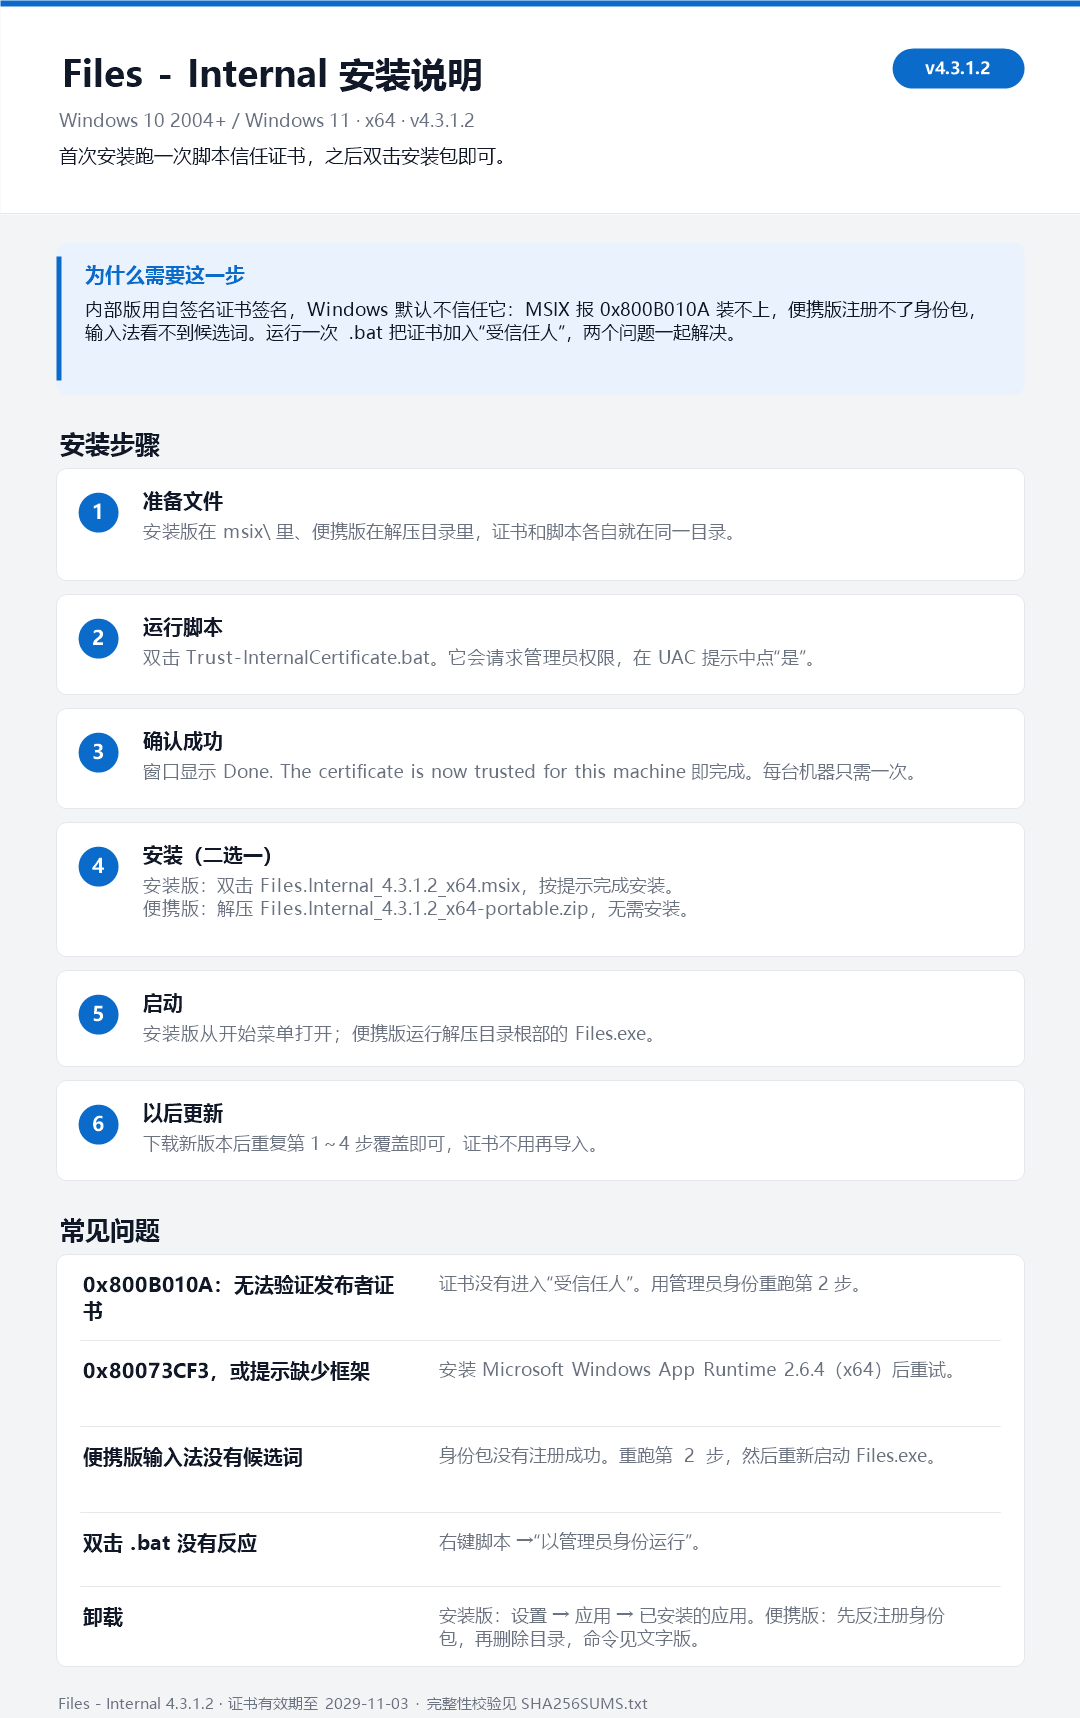
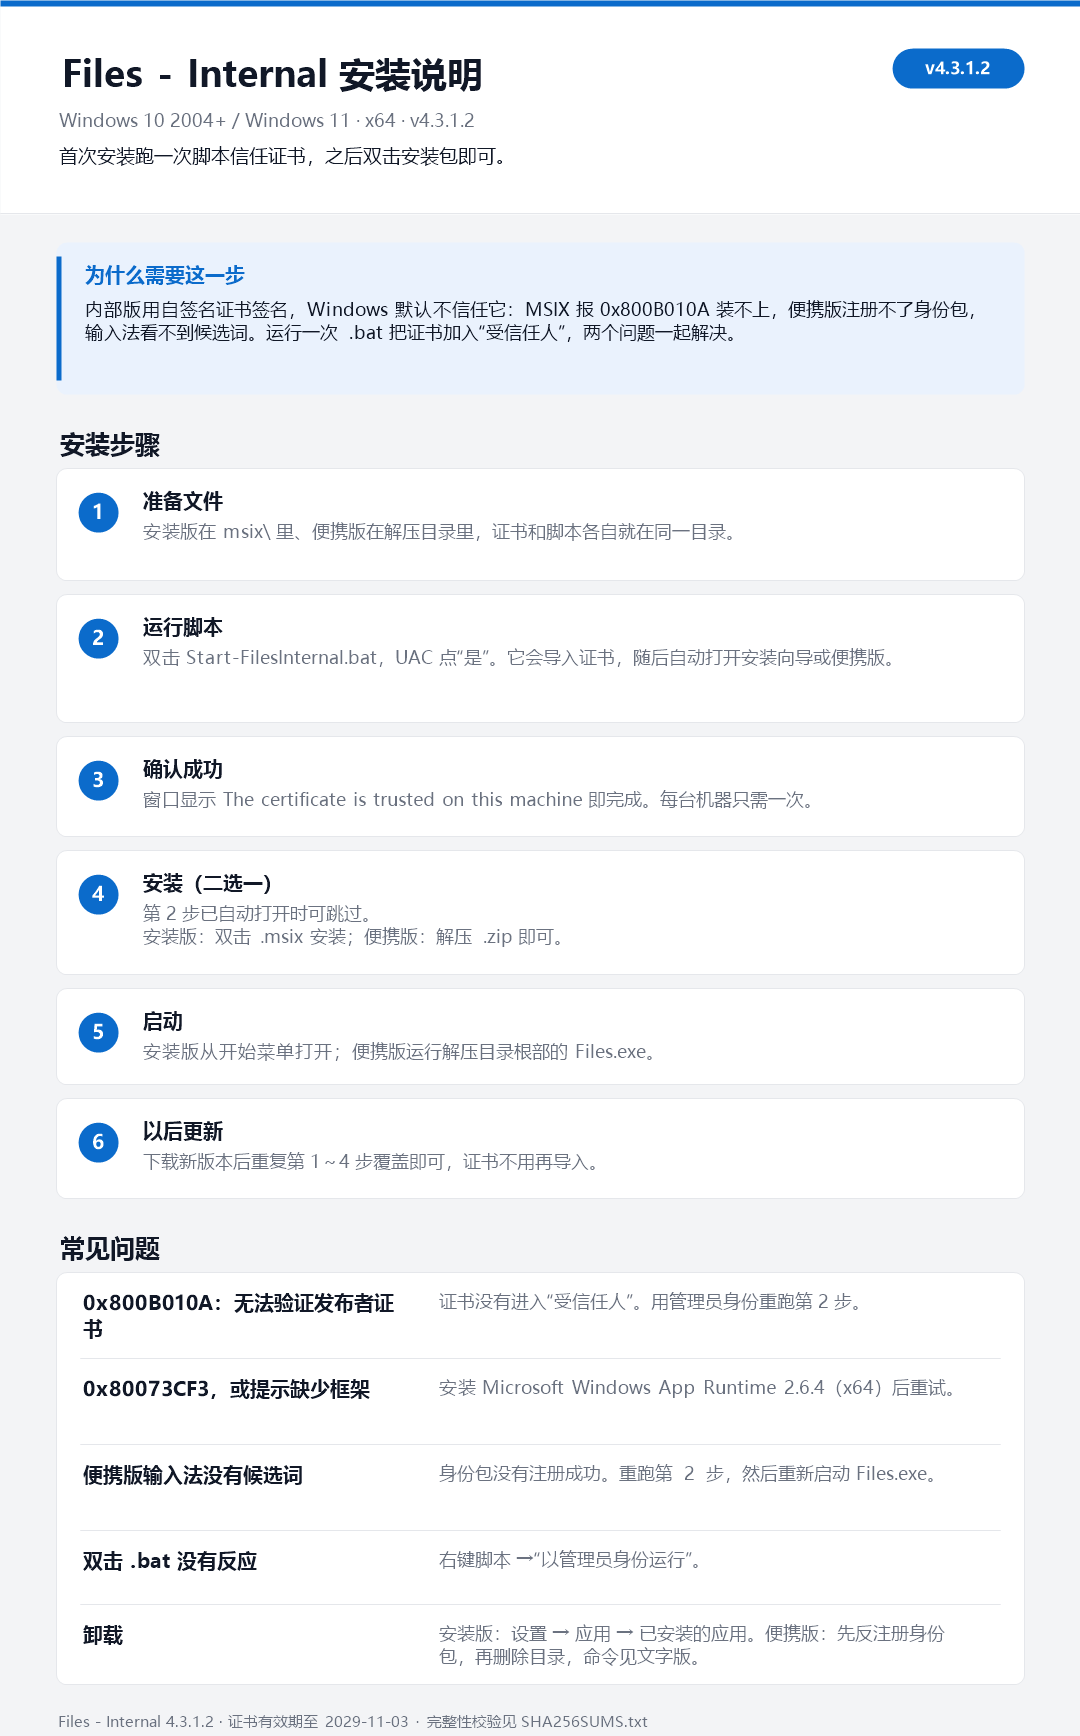
Start the app from the trust helper and prune stale release entries

diff --git a/docs/install-guide/install-guide.md b/docs/install-guide/install-guide.md
@@ -15,7 +15,7 @@
 | 安装 MSIX 时报 `0x800B010A`「无法验证此应用包的发布者证书」 | 证书链构建不到受信任的根 |
 | 便携版运行后输入法没有候选词预览 | 启动器无法注册身份包，退回无身份启动 |
 
-`Trust-InternalCertificate.bat` 把随包发布的 `.cer` 导入本机「受信任人」存储，两个问题一起解决。**每台机器只需要执行一次**，证书有效期到 2029-11-03，期间升级版本不用重复导入。
+`Start-FilesInternal.bat` 把随包发布的 `.cer` 导入本机「受信任人」存储，然后直接启动同目录的安装向导或便携版，两个问题一起解决。**每台机器只需要执行一次**，证书有效期到 2029-11-03，期间升级版本不用重复导入。
 
 > 只导入公钥证书（`.cer`），不涉及私钥。私钥始终留在打包机上，不会随发布包分发。
 
@@ -42,9 +42,9 @@ portable\   便携版：便携压缩包 + 说明
 | --- | --- | --- |
 | `msix\` | `Files.Internal_4.3.1.2_x64.msix` | 安装版安装包 |
 | `msix\` | `Files.Internal_4.3.1.2_x64.cer` | 签名证书公钥，导入用 |
-| `msix\` | `Trust-InternalCertificate.bat` | 一键导入证书的脚本 |
+| `msix\` | `Start-FilesInternal.bat` | 一键：导入证书 → 打开安装向导 |
 | `msix\` | `Files.Internal_4.3.1.2_x64-msix.zip` | 上述文件的打包，便于整包转发 |
-| `portable\` | `Files.Internal_4.3.1.2_x64-portable.zip` | 便携版本体；解压后目录根部同样自带 `.cer` 和 `.bat` |
+| `portable\` | `Files.Internal_4.3.1.2_x64-portable.zip` | 便携版本体；解压后目录根部同样自带 `.cer`、`.bat` 和说明 |
 | 两者 | `install-guide.md`、`install-guide.png` | 本说明 |
 | 两者 | `SHA256SUMS.txt`、`RELEASE-INFO.txt` | 完整性校验与版本信息 |
 
@@ -73,30 +73,38 @@ certutil -hashfile Files.Internal_4.3.1.2_x64.msix SHA256
 
 两个包各自带着证书和脚本，位置不同：
 
-- **安装版**：`msix\` 文件夹里有 `Files.Internal_4.3.1.2_x64.cer` 和 `Trust-InternalCertificate.bat`
+- **安装版**：`msix\` 文件夹里有 `Files.Internal_4.3.1.2_x64.cer` 和 `Start-FilesInternal.bat`
 - **便携版**：先解压 `Files.Internal_4.3.1.2_x64-portable.zip`，解压目录根部有同样的两个文件
 
 脚本只认**自己所在目录**的 `.cer`，所以不要把 `.bat` 单独拷到别处。
 
-### 第 2 步：运行脚本
+### 第 2 步：运行 Start-FilesInternal.bat
 
-在上一步那个目录里双击 `Trust-InternalCertificate.bat`。
+在上一步那个目录里双击 `Start-FilesInternal.bat`。它做三件事：
 
-- 脚本会检测权限，未提权时自动通过 UAC 重新拉起自己
-- 在 UAC 提示中点「是」
-- 如果 UAC 窗口没有出现，右键脚本 →「以管理员身份运行」
+1. 检测权限，未提权时通过 UAC 重新拉起自己
+2. 把同目录的证书导入「受信任人」
+3. 自动启动同目录的产品：
+   - 旁边有 `.msix` → 打开 Windows 安装向导
+   - 旁边有 `Files.exe` → 启动便携版
+
+在 UAC 提示中点「是」。如果 UAC 窗口没有出现，右键脚本 →「以管理员身份运行」。
+
+> 应用是通过 `explorer.exe` 拉起的，所以即使脚本本身是管理员权限，Files 仍以普通用户权限运行。
 
 ### 第 3 步：确认成功
 
-窗口显示下面这行即完成：
+窗口显示下面这行即表示证书已导入，随后会自动打开安装向导或便携版：
 
 ```text
-Done. The certificate is now trusted for this machine.
+The certificate is trusted on this machine.
 ```
 
 失败时脚本以退出码 `1` 结束，并打印 `certutil` 的原始错误。最常见的是没有管理员权限导致的 `0x80070005`。
 
 ### 第 4 步：安装（安装版与便携版二选一）
+
+如果第 2 步已经自动打开了安装向导或便携版，这一步可以跳过；需要手动时才看。
 
 **方式 A — 安装版（推荐日常使用）**
 
@@ -188,10 +196,11 @@ certutil -delstore TrustedPeople 479604F7D446C7E8959902E6076572634EA1A7A1
 
 ## 附：脚本做了什么
 
-`Trust-InternalCertificate.bat` 的全部动作只有三步：
+`Start-FilesInternal.bat` 的全部动作只有四步：
 
 1. 用 `whoami /groups` 检查当前是否具有管理员完整性级别（查 `S-1-16-12288`）
-2. 未提权时通过 `mshta` 调用 `ShellExecute ... runas` 重新拉起自己
+2. 未提权时生成一个临时 `.vbs`，用 `ShellExecute ... "runas"` 重新拉起自己，用完即删
 3. 执行 `certutil -addstore -f "TrustedPeople" <证书>` 写入本机证书存储
+4. 通过 `explorer.exe` 启动同目录的 `.msix`（安装向导）或 `Files.exe`（便携版），保证应用不以管理员权限运行
 
 不写注册表、不改系统设置、不联网、不安装任何服务。

diff --git a/.github/scripts/INTERNAL-RELEASE.md b/.github/scripts/INTERNAL-RELEASE.md
@@ -124,6 +124,11 @@ verification happen in staging directories. The previous release is replaced
 only after the complete new release passes validation. A failed build leaves the
 previous release intact and removes the failed staging output.
 
+The release directory owns exactly `msix\` and `portable\`. After a successful
+publish the script removes every other top-level entry, so leftovers from an
+older layout or manual copies do not survive a rebuild. It never sweeps when the
+output directory is the repository root.
+
 Default output: `artifacts\internal\<version>\`, split into two self-contained
 folders.
 
@@ -133,7 +138,7 @@ folders.
 | --- | --- |
 | `Files.Internal_<version>_x64.msix` | Signed internal install package |
 | `Files.Internal_<version>_x64.cer` | Public certificate used to sign the package |
-| `Trust-InternalCertificate.bat` | Imports the certificate into `LocalMachine\TrustedPeople` |
+| `Start-FilesInternal.bat` | Imports the certificate into `LocalMachine\TrustedPeople`, then opens the MSIX |
 | `Files.Internal_<version>_x64-msix.zip` | The files above plus `RELEASE-INFO.txt`, as one archive |
 | `install-guide.md`, `install-guide.png` | Install instructions, text and single-page image |
 | `SHA256SUMS.txt` | SHA-256 hashes for every file in the folder except itself |
@@ -144,13 +149,13 @@ folders.
 | File | Purpose |
 | --- | --- |
 | `Files.Internal_<version>_x64-portable.zip` | Complete portable directory, extract and run |
-| `Files.Internal_<version>_x64.cer`, `Trust-InternalCertificate.bat` | Also stored at the root of the ZIP: the portable build needs the certificate trusted before its identity package can register |
+| `Files.Internal_<version>_x64.cer`, `Start-FilesInternal.bat` | Also stored at the root of the ZIP: the portable build needs the certificate trusted before its identity package can register. The script then starts the launcher. |
 | `install-guide.md`, `install-guide.png` | Also stored inside the ZIP, so the extracted folder documents itself |
 | `SHA256SUMS.txt` | SHA-256 hashes for every file in the folder except itself |
 | `RELEASE-INFO.txt` | Version, commits, target dependency, signature identity and status |
 
 Each folder can be handed out on its own: neither needs the other. The `.cer`
-and `Trust-InternalCertificate.bat` are exported and copied by the build, so
+and `Start-FilesInternal.bat` are exported and copied by the build, so
 they always match the signature of the package in the same folder.
 
 `RELEASE-INFO.txt` is also stored at the root of the portable ZIP. MSIX bundles,
@@ -248,11 +253,12 @@ The portable ZIP also contains `Files.Internal.Portable.Identity.msix` (a payloa
 package). On Windows builds where unpackaged WinUI 3 applications lose the IME candidate window
 (observed on Windows 11 build 26300), the launcher registers this package on first start and then
 activates the app through the package identity, which restores the candidate window. The binaries
-keep living in the portable folder. No helper script ships in the ZIP: registration is automatic.
+keep living in the portable folder. No separate registration script ships: the launcher does it.
 
 - Registration is per user and only succeeds when the signing certificate is trusted. Trust it
-  once per machine with `Trust-InternalCertificate.bat` (shipped beside the MSIX, not inside the
-  ZIP); with a trusted code-signing certificate the launcher registers silently.
+  once per machine with `Start-FilesInternal.bat`, which is shipped in the `msix\` folder and at
+  the root of the portable ZIP; with a trusted code-signing certificate the launcher registers
+  silently.
 - To remove the registration, unregister before deleting the folder, otherwise the registration
   keeps pointing at a missing external location:
   `Get-AppxPackage -Name Files.Internal.Portable.Identity | Remove-AppxPackage`.
